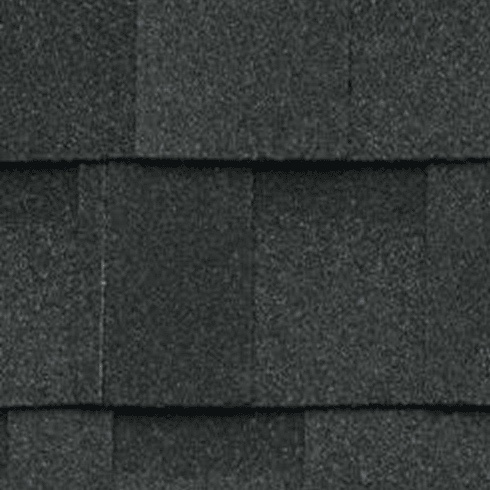
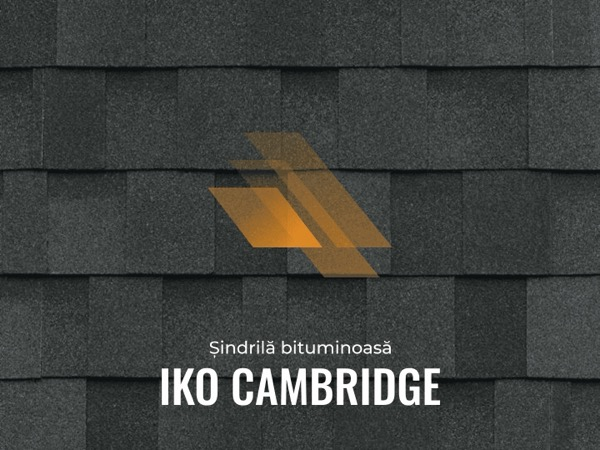
W27-C-05 Sindrila bituminoasa from Imperlux
W27-R-04 applied to IKO Cambridge (De la 357 lei/m2) and IKO Superglass Hex
(De la 260 lei/m2), re-verified on the rendered page: each card gains the
tagline, the colour code chips, the warranty line as printed and kg/m2. The
W26-11 corner crops are replaced by the previews as published, flagged
label, and their ids move to the W27-R-04 override entry because the
W26-R10 sentence says "cropped". Budgets 21,785 / 21,943 (measured
21,725 / 21,883).

Static gates and gate 28 exit 0.

Claude-Session: https://claude.ai/code/session_01WG5LwKbwaLCBty8n7hwXDp

diff --git a/scripts/verify-live.js b/scripts/verify-live.js
@@ -326,8 +326,10 @@ const PAGES = [
      table; measured 20,180 / 20,318 at 1440, settled, plus 60 (W24-R4), in R-Y. */
   /* AMENDED (W27-C-03): seven imperlux metal tile cards, two more grid rows and the
      derived "de la" lines; measured 21,643 / 21,802 at 1440, settled, plus 60, in R-Y. */
-  { path: '/servicii/acoperisuri/',        type: 'service-roof', label: 'svc RO acoper', budget: 21703 },
-  { path: '/ru/servicii/acoperisuri/',     type: 'service-roof', label: 'svc RU acoper', budget: 21862 },
+  /* AMENDED (W27-C-05): the two shingle cards gain a tagline, chips and a facts line;
+     measured 21,725 / 21,883 at 1440, settled, plus 60, in R-Y. */
+  { path: '/servicii/acoperisuri/',        type: 'service-roof', label: 'svc RO acoper', budget: 21785 },
+  { path: '/ru/servicii/acoperisuri/',     type: 'service-roof', label: 'svc RU acoper', budget: 21943 },
   /* W24-07. The rocă vulcanică mirror page. */
   /* AMENDED (W27-C-04): chips, a warranty row and a price on each card, a derived "de la"
      line under the heading; measured 4,369 / 4,439 at 1440, settled, plus 60, in R-Y. */

diff --git a/scripts/check-asset-provenance.js b/scripts/check-asset-provenance.js
@@ -92,7 +92,9 @@ const OVERRIDES = [
     licence: 'owner_override_imperlux, competitor origin taken by owner decision W26-R10, cropped where burned-in text or branding sat, no upscale, source URL per file, owner accepted 2026-09-22',
     files: [
       'ACOP-05', 'ACOP-06', 'ACOP-07',
-      'ACIM-01', 'ACIM-02', 'ACIM-03', 'ACIM-04', 'ACIM-05', 'ACIM-06', 'ACIM-07', 'ACIM-08', 'ACIM-09',
+      /* W27-C-05: ACIM-02 and ACIM-03 moved to the W27-R-04 entry below, because their
+         pictures are now the untouched previews and this sentence says "cropped". */
+      'ACIM-01', 'ACIM-04', 'ACIM-05', 'ACIM-06', 'ACIM-07', 'ACIM-08', 'ACIM-09',
     ],
   },
   /* AMENDED (W27-R-04, W27-C-03): a FOURTH override, imperlux.md as the source of record
@@ -107,6 +109,7 @@ const OVERRIDES = [
     files: [
       'ACIM-10', 'ACIM-11', 'ACIM-12', 'ACIM-13', 'ACIM-14', 'ACIM-15', 'ACIM-16', 'NVK-01', 'NVK-02', 'NVK-03', 'NVK-04',
       'ACOP-09',
+      'ACIM-02', 'ACIM-03',
     ],
   },
 ];

diff --git a/docs/assets/PROVENANCE.md b/docs/assets/PROVENANCE.md
@@ -506,8 +506,8 @@ rows now carry `legacy, licence unverified`.
 | `public/img/acoperisuri/ACOP-07.jpg` | https://imperlux.md/acoperisuri · https://imperlux.md/acoperisuri/images/categories/sisteme-pluviale.png · Imperlux | owner_override_imperlux, competitor origin taken by owner decision W26-R10, cropped where burned-in text or branding sat, no upscale, source URL per file, owner accepted 2026-09-22 | https://imperlux.md/acoperisuri | 2026-09-22 |
 | `public/img/acoperisuri/ACOP-08.jpg` | client direct transfer, owner folder RC-webpics_v2 ACOPERIȘURI, 22.09.2026 | owned by Rapid Construct, supplied for site use | not required, client-supplied original | 2026-09-22 |
 | `public/img/acoperisuri/ACIM-01.jpg` | https://imperlux.md/acoperisuri/produse/tigla-ceramica/ · https://imperlux.md/acoperisuri/images/categories/ceramica.png · Imperlux | owner_override_imperlux, competitor origin taken by owner decision W26-R10, cropped where burned-in text or branding sat, no upscale, source URL per file, owner accepted 2026-09-22 | https://imperlux.md/acoperisuri/produse/tigla-ceramica/ | 2026-09-22 |
-| `public/img/acoperisuri/ACIM-02.jpg` | https://imperlux.md/acoperisuri/produse/shingle/iko-cambridge/ · https://imperlux.md/acoperisuri/images/products/iko-cambridge/hero.png · Imperlux | owner_override_imperlux, competitor origin taken by owner decision W26-R10, cropped where burned-in text or branding sat, no upscale, source URL per file, owner accepted 2026-09-22 | https://imperlux.md/acoperisuri/produse/shingle/iko-cambridge/ | 2026-09-22 |
-| `public/img/acoperisuri/ACIM-03.jpg` | https://imperlux.md/acoperisuri/produse/shingle/iko-hex/ · https://imperlux.md/acoperisuri/images/products/iko-hex/hero.png · Imperlux | owner_override_imperlux, competitor origin taken by owner decision W26-R10, cropped where burned-in text or branding sat, no upscale, source URL per file, owner accepted 2026-09-22 | https://imperlux.md/acoperisuri/produse/shingle/iko-hex/ | 2026-09-22 |
+| `public/img/acoperisuri/ACIM-02.jpg` | https://imperlux.md/acoperisuri/produse/shingle/iko-cambridge/ · https://imperlux.md/acoperisuri/images/products/iko-cambridge/hero.png · Imperlux | owner_override_imperlux, source of record by owner decision W27-R-04, the preview image as imperlux.md publishes it, watermark untouched, no upscale, source URL per file, owner accepted 2026-09-22 | https://imperlux.md/acoperisuri/produse/shingle/iko-cambridge/ | 2026-09-22 |
+| `public/img/acoperisuri/ACIM-03.jpg` | https://imperlux.md/acoperisuri/produse/shingle/iko-hex/ · https://imperlux.md/acoperisuri/images/products/iko-hex/hero.png · Imperlux | owner_override_imperlux, source of record by owner decision W27-R-04, the preview image as imperlux.md publishes it, watermark untouched, no upscale, source URL per file, owner accepted 2026-09-22 | https://imperlux.md/acoperisuri/produse/shingle/iko-hex/ | 2026-09-22 |
 | `public/img/acoperisuri/ACIM-04.jpg` | https://imperlux.md/acoperisuri/produse/sisteme-pluviale/carlig-pazie-universal/ · https://imperlux.md/acoperisuri/images/products/sisteme-pluviale/carlig-pazie-universal.jpg · Imperlux | owner_override_imperlux, competitor origin taken by owner decision W26-R10, cropped where burned-in text or branding sat, no upscale, source URL per file, owner accepted 2026-09-22 | https://imperlux.md/acoperisuri/produse/sisteme-pluviale/carlig-pazie-universal/ | 2026-09-22 |
 | `public/img/acoperisuri/ACIM-05.jpg` | https://imperlux.md/acoperisuri/produse/sisteme-pluviale/cot-60/ · https://imperlux.md/acoperisuri/images/products/sisteme-pluviale/cot-60.jpg · Imperlux | owner_override_imperlux, competitor origin taken by owner decision W26-R10, cropped where burned-in text or branding sat, no upscale, source URL per file, owner accepted 2026-09-22 | https://imperlux.md/acoperisuri/produse/sisteme-pluviale/cot-60/ | 2026-09-22 |
 | `public/img/acoperisuri/ACIM-06.jpg` | https://imperlux.md/acoperisuri/produse/sisteme-pluviale/prelungitor/ · https://imperlux.md/acoperisuri/images/products/sisteme-pluviale/prelungitor.jpg · Imperlux | owner_override_imperlux, competitor origin taken by owner decision W26-R10, cropped where burned-in text or branding sat, no upscale, source URL per file, owner accepted 2026-09-22 | https://imperlux.md/acoperisuri/produse/sisteme-pluviale/prelungitor/ | 2026-09-22 |

diff --git a/docs/PHOTO-REVIEW-W25.md b/docs/PHOTO-REVIEW-W25.md
@@ -19,14 +19,14 @@ them apart: nothing from the earlier dispatch is a labelled swatch or carries a 
 
 | Flag | Rows | What to look for |
 |---|---|---|
-| labelled swatch | 134 | the product name or code is printed into the photograph, and the card prints it again underneath |
+| labelled swatch | 136 | the product name or code is printed into the photograph, and the card prints it again underneath |
 | watermark | 78 | a supplier mark on the picture or on the product. It is there on purpose and must not be cropped |
 | reuse | 25 | one picture filling a second record of the same product (W25-R17). Check the two cards are the same product |
 | google_pick | 12 | found by search because the product's own source publishes nothing at the 450 floor (W25-R20). Check it is the right product, and correct it if not |
 | library | 3 | a licence-free stock photograph from Unsplash or Pexels (W25-R23, W26-R8), decoration only. Check it suits the page |
 | low_res | 4 | the longest side is under the site's 450 floor, installed under W26-R13's floor of 300 for the last empty products. Replace it when a larger picture exists |
 | low confidence match | 9 | the plate matched Phomi at a tier that is not an exact string match. Check the name in the picture against the name on the card |
-| no flag | 110 | an ordinary manufacturer packshot |
+| no flag | 108 | an ordinary manufacturer packshot |
 
 ## Table one: every image on the site in these 4 sections
 
@@ -283,8 +283,8 @@ them apart: nothing from the earlier dispatch is a labelled swatch or carries a 
 | `ACOP-08` | ACOP-08 | /servicii/acoperisuri/ | client direct transfer, owner folder RC-webpics_v2 ACOPERIȘURI, 22.09.2026 | owned by Rapid Construct, supplied for site use | 1280x730 | none |
 | `ACOP-09` | ACOP-09 | /servicii/acoperisuri/ | https://www.dasterum.md/content/catalog/products/vmt7scs4.jpg | direct_supplier dasterum.md | 488x488 | watermark, reuse of CAT-0228 |
 | `ACIM-01` | ACIM-01 | /servicii/acoperisuri/ | https://imperlux.md/acoperisuri/images/categories/ceramica.png | owner_override_imperlux | 540x540 | none |
-| `ACIM-02` | ACIM-02 | /servicii/acoperisuri/ | https://imperlux.md/acoperisuri/images/products/iko-cambridge/hero.png | owner_override_imperlux | 490x490 | none |
-| `ACIM-03` | ACIM-03 | /servicii/acoperisuri/ | https://imperlux.md/acoperisuri/images/products/iko-hex/hero.png | owner_override_imperlux | 490x490 | none |
+| `ACIM-02` | ACIM-02 | /servicii/acoperisuri/ | https://imperlux.md/acoperisuri/images/products/iko-cambridge/hero.png | owner_override_imperlux | 600x450 | labelled swatch |
+| `ACIM-03` | ACIM-03 | /servicii/acoperisuri/ | https://imperlux.md/acoperisuri/images/products/iko-hex/hero.png | owner_override_imperlux | 600x450 | labelled swatch |
 | `ACIM-04` | ACIM-04 | /servicii/acoperisuri/ | https://imperlux.md/acoperisuri/images/products/sisteme-pluviale/carlig-pazie-universal.jpg | owner_override_imperlux | 600x600 | none |
 | `ACIM-05` | ACIM-05 | /servicii/acoperisuri/ | https://imperlux.md/acoperisuri/images/products/sisteme-pluviale/cot-60.jpg | owner_override_imperlux | 600x600 | none |
 | `ACIM-06` | ACIM-06 | /servicii/acoperisuri/ | https://imperlux.md/acoperisuri/images/products/sisteme-pluviale/prelungitor.jpg | owner_override_imperlux | 600x600 | none |

diff --git a/DECISIONS.md b/DECISIONS.md
@@ -13060,3 +13060,26 @@ derivation the roofing tables carry.
 **Rendered acceptance.** 4 cards with image, price, chips and facts; 0 percent signs in a price
 element; 0 "Popular"; 0 "Preț la cerere". **Heights** 4,288 to 4,369 and 4,386 to 4,439; budgets
 4,429 / 4,499 (R-Y).
+
+## W27-C-05 · Șindrilă bituminoasă from Imperlux, 2026-09-22
+
+Branch `w27/w27-c-05-sindrila-imperlux`, stacked on W27-C-04.
+
+**W27-R-04 applied to the two records the section already carried**, `imp-iko-cambridge` and
+`imp-iko-hex`. Prices re-verified on the rendered section card, the Compară table and the product
+page: 357 lei/m² and 260 lei/m², unchanged since W26-04. Each record gains the tagline, the colour
+code chips as printed (52, 53, 54 and "+1" on Cambridge; 01, 27, 23 on Hex; the fourth Cambridge
+code is named nowhere, Q-W27-02), and `Garanție` as the page prints it, "25 ani (total) / 15 ani
+(Platinum)" and "15 ani (total) / 5 ani (Platinum)", which the facts line carries verbatim, followed
+by "garanție" as imperlux's own card text does. The Compară table is unchanged: Preț, Grosime,
+Greutate, Culori were already imperlux's columns; the warranty row stays held (W26-R6).
+
+**The pictures change shape.** W26-11 had installed a 490x490 corner of each shingle texture "clear of
+imperlux's orange logo". W27-R-04 says same images, untouched, and the dispatch names the preview
+image; both files are now the 1440x1080 previews at 600x450, with the category, the model name and
+the orange mark in them, flagged `label`. Their ledger rows move from `1 / 1` to `4 / 3`, and their
+ids move from the W26-R10 override entry, whose sentence says "cropped where burned-in text or
+branding sat", to the W27-R-04 entry, whose sentence says "as imperlux.md publishes it": a file is
+held to the sentence that describes it.
+
+**Heights** 21,643 to 21,725 and 21,802 to 21,883; budgets 21,785 / 21,943 (R-Y).

diff --git a/docs/BACKLOG.md b/docs/BACKLOG.md
@@ -1043,3 +1043,13 @@ its warranty row stays held (W26-R6, claims-held rows 7 and 9 amended). A derive
 0 percent, 0 "Popular" on the page. Budgets **4,429 / 4,499**. **Static gates exit 0**; gate 28 run
 before the PR.
 
+## W27-C-05 · Șindrilă bituminoasă from Imperlux
+**Status: PR OPEN** (opened 2026-09-22). W27-R-04 applied to the two IKO shingles the section already
+had: **IKO Cambridge De la 357 lei/m²** and **IKO Superglass Hex De la 260 lei/m²**, re-verified on the
+rendered page; each card gains the tagline, the colour code chips (52, 53, 54; 01, 27, 23), the
+warranty line exactly as printed ("25 ani (total) / 15 ani (Platinum) garanție") and kg/m². **The
+W26-11 corner crops are replaced by the previews as published**, which carry the category, the model
+name and Imperlux's orange mark (Q-W27-02); flagged `label`, and their two ids move to the W27-R-04
+override entry because the W26-R10 sentence says "cropped". The section's derived line reads "2 modele,
+de la 260 lei/m²". Budgets **21,785 / 21,943**. **Static gates exit 0**; gate 28 run before the PR.
+

diff --git a/docs/board/W27-C-05-sindrila-imperlux.md b/docs/board/W27-C-05-sindrila-imperlux.md
@@ -1,0 +1,19 @@
+# W27-C-05 · Șindrilă bituminoasă from Imperlux
+
+Card W27-C-05. Branch `w27/w27-c-05-sindrila-imperlux`, stacked on W27-C-04.
+
+## What you will see
+
+The two IKO shingle cards on the roofing page keep their prices (**De la 357 lei/m²** and **De la 260
+lei/m²**, checked again on Imperlux's page tonight) and gain the one-line description, the colour
+codes as chips, the warranty line exactly as Imperlux prints it, and kg/m². Their pictures are now
+Imperlux's previews as published, with the model name and Imperlux's orange mark in them, the same
+question as the metal tiles (Q-W27-02). Above the table: "2 modele, de la 260 lei/m²".
+
+## Heights
+
+Roofing page 21,643 to 21,725 (RO), 21,802 to 21,883 (RU).
+
+## Gates
+
+Every static gate exits 0; the text-contrast gate was run before the PR. CI runs the full 29.

diff --git a/docs/rulings/R-Y.md b/docs/rulings/R-Y.md
@@ -1094,3 +1094,14 @@ lei/buc" line sits under the heading. Same instrument and method as the blocks a
 
 Plus 60 (W24-R4). "Before" is the budget less 60, the way the budget was set.
 
+## AMENDED (W27-C-05, wave 27): the two shingle cards
+
+W27-R-04: IKO Cambridge and IKO Superglass Hex gain a tagline, colour code chips and a facts line.
+
+| Page | Before | After | Budget |
+|---|---|---|---|
+| `/servicii/acoperisuri/` | 21,643 | **21,725** | 21,703 to **21,785** |
+| `/ru/servicii/acoperisuri/` | 21,802 | **21,883** | 21,862 to **21,943** |
+
+Plus 60 (W24-R4). Same instrument as the blocks above.
+
